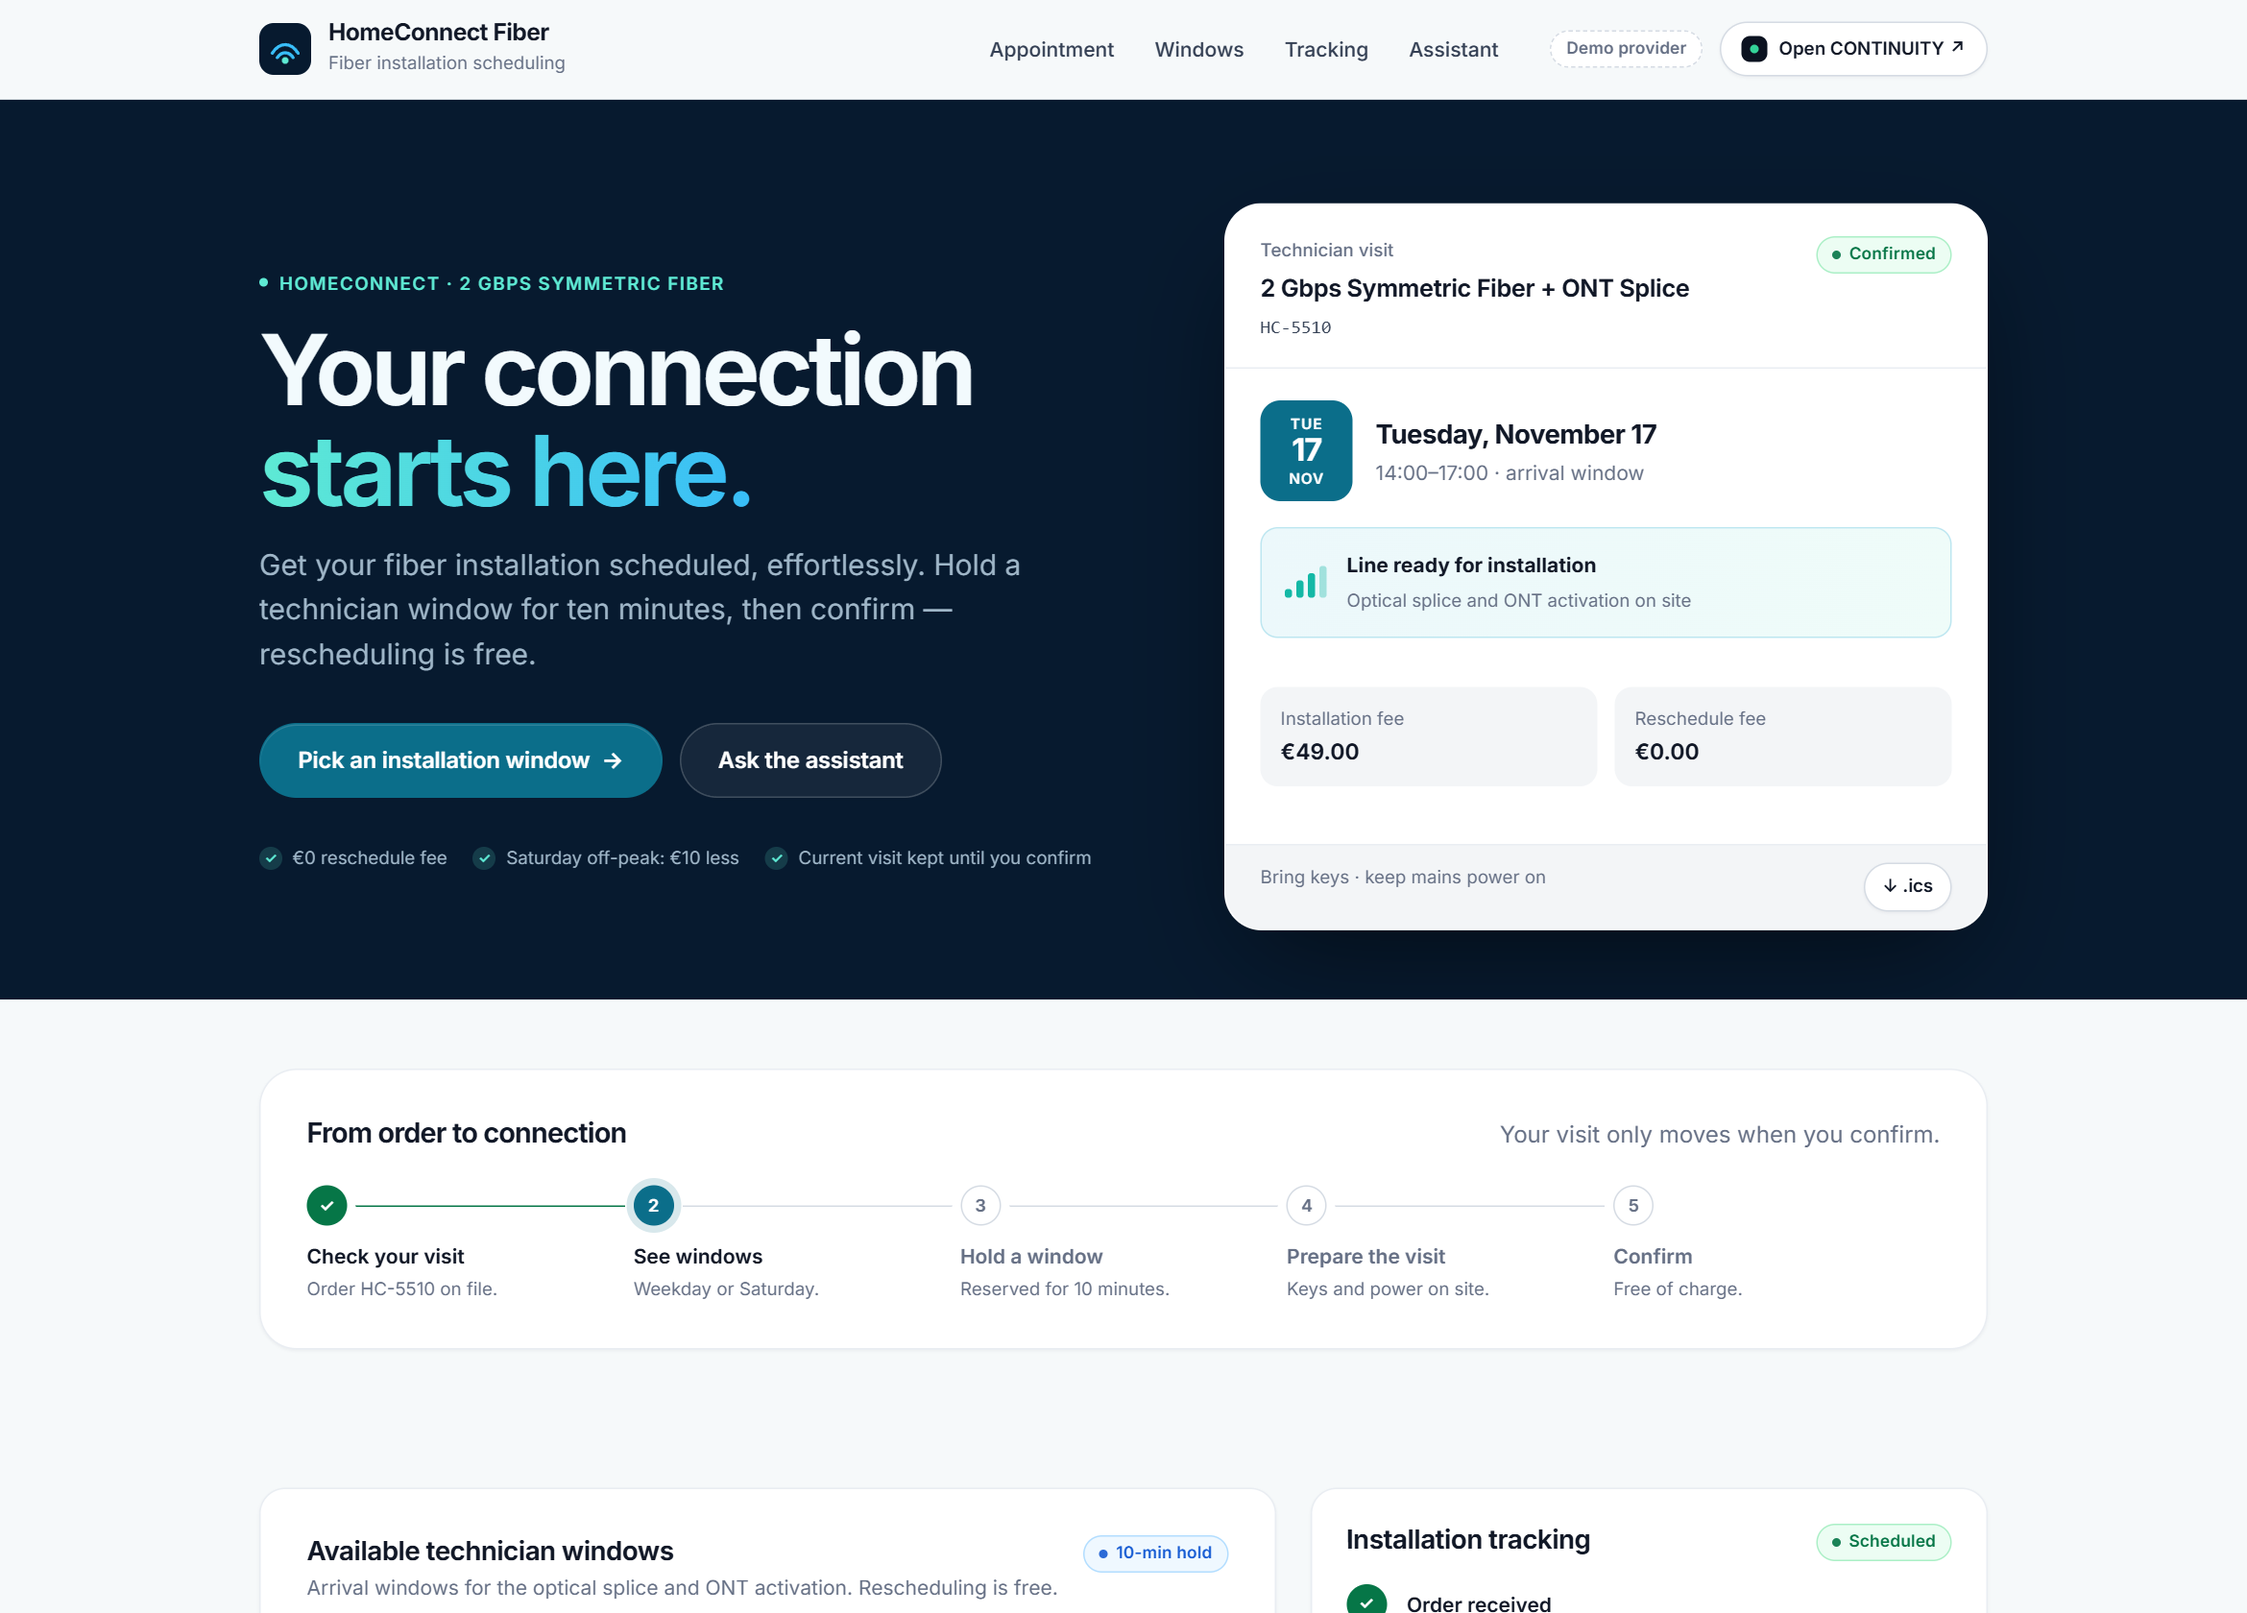
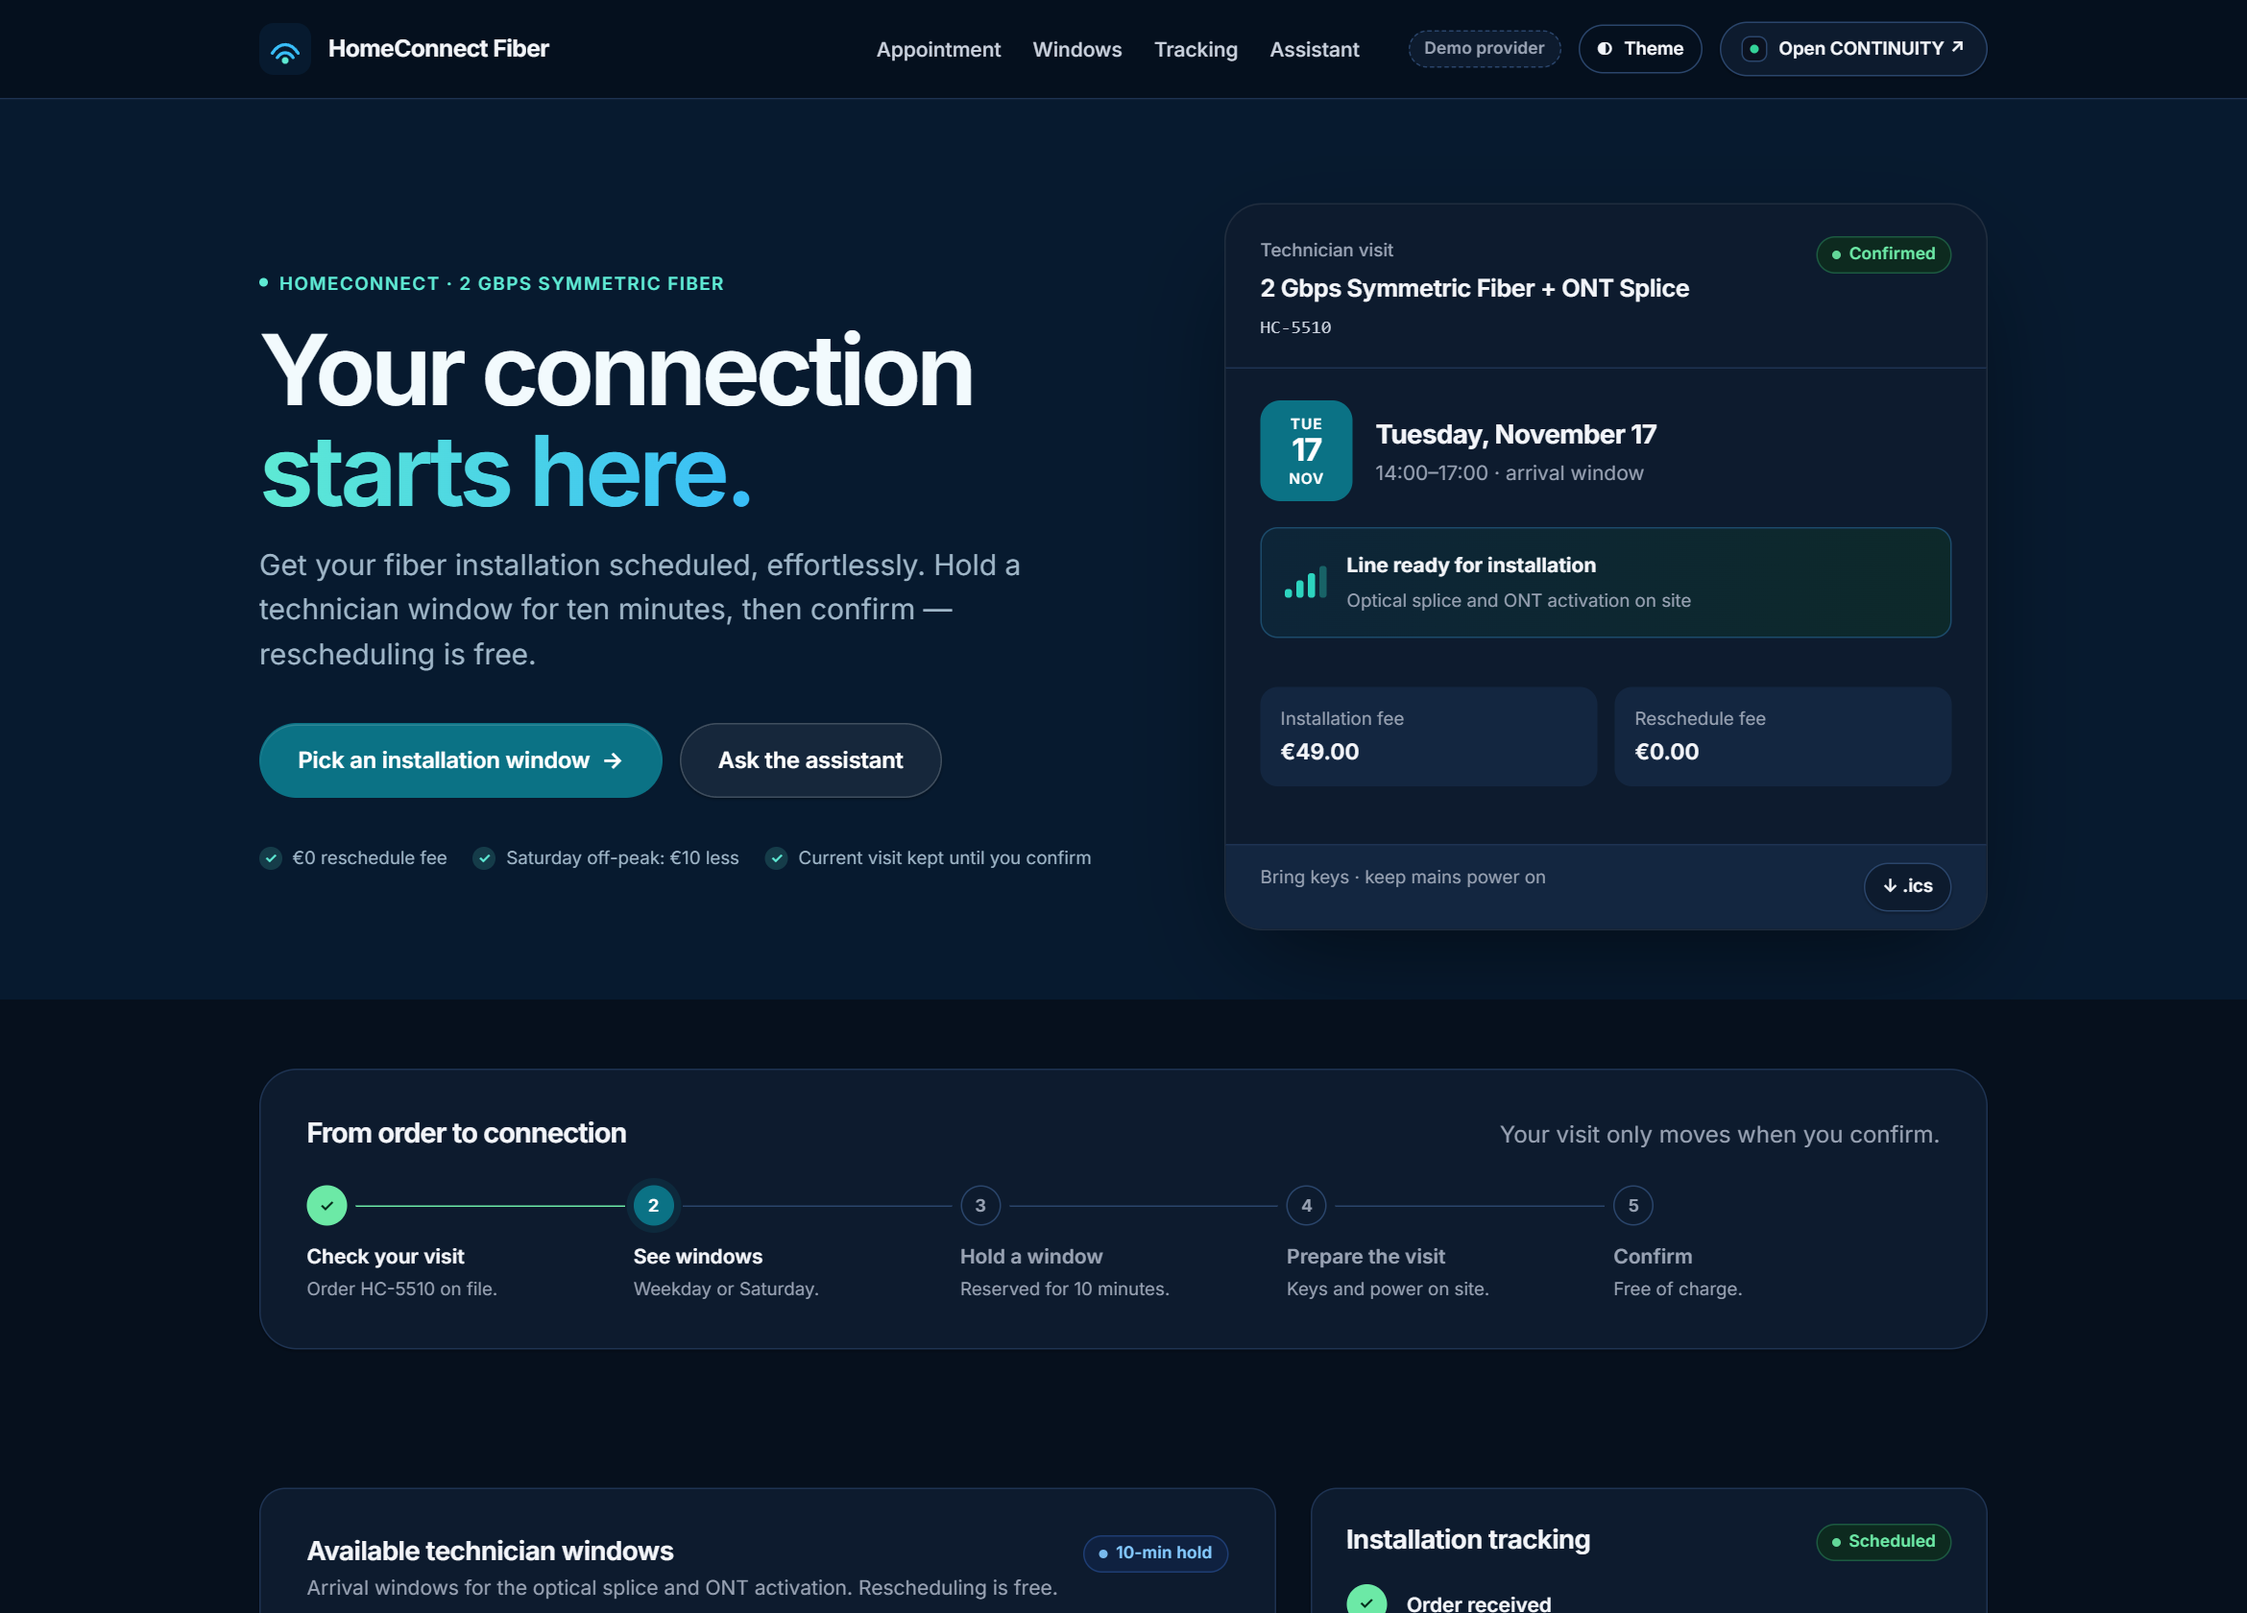
docs: impact kit (timed 5-person user test, outreach to other teams, one-origin-per-provider guide), plain one-line pitch, night-theme screenshots
Claude-Session: https://claude.ai/code/session_01G5J9oM5g3DGDmTQiK1m8Kt

diff --git a/docs/impact/USER_TEST_PROTOCOL.md b/docs/impact/USER_TEST_PROTOCOL.md
@@ -1,0 +1,37 @@
+# Timed user test — "by hand" vs CONTINUITY (5 people, ~25 min each)
+
+**Goal:** replace the *estimate* "~18 actions on 6 websites" with **measured** time, steps, mistakes and confidence from real people. Five participants are enough to show the size of the effect (we report medians and ranges, not statistics we cannot claim).
+
+## Participants
+5 adults who have moved house or rescheduled several appointments at least once. Not developers of this project. No personal data is collected: participant = P1…P5.
+
+## Setup (10 min, once)
+- Laptop, Chrome, 1440 px window, a stopwatch (phone) and `RESULTS_TEMPLATE.csv` open.
+- **Condition A – by hand:** four tabs open on the providers' own sites (MoveCo, PermitFlow, HomeConnect, PowerFlow — public URLs in the README) + the printed card *"Your move moved from Tue 17 Nov to Fri 20 Nov. Budget €700. Don't lose any booking. Storage and sofa delivery are not affected."*
+- **Condition B – CONTINUITY:** one tab on `https://toskaman.github.io/continuity-agentic-web/` (Reset demo before each participant). Same card.
+- **Counterbalance:** P1, P3, P5 do A then B; P2, P4 do B then A.
+
+## Task (same in both conditions)
+"Make every affected booking fit Friday without losing any, under €700. Tell me when you think you're done."
+In condition B the participant also switches on *Simulate a provider failure* first (the Friday crew is full) — the same failure is told to them verbally in condition A when they reach MoveCo ("the 08:00 crew is full on Friday").
+
+## What to record (per condition)
+| Field | How |
+|---|---|
+| `time_s` | Stopwatch from "go" to "done" |
+| `actions` | Count clicks that change something + page/tab switches (observer tally) |
+| `sites_touched` | Distinct sites the participant interacted with |
+| `premature_cancel` | 1 if they cancelled/released a booking before its replacement existed, else 0 |
+| `unnecessary_contact` | Number of providers contacted that did not need to change (Storage/Sofa/PowerFlow) |
+| `correct_outcome` | 1 if all affected bookings end on a valid Friday/Saturday slot under budget |
+| `seq` | Single Ease Question 1–7: "Overall, how easy was this task?" |
+| `confidence` | 1–7: "How sure are you nothing is broken?" |
+| `quote` | One sentence, verbatim (optional) |
+
+## Script for the facilitator
+1. "We're testing the tool, not you. Think aloud if you like." 2. Run condition 1. 3. SEQ + confidence. 4. Run condition 2. 5. SEQ + confidence + "Which would you use next time, and why?" 6. Thank them.
+
+## After the sessions
+`node docs/impact/analyze_user_test.mjs docs/impact/RESULTS.csv` prints the medians, ranges and the ready-to-paste sentence for Devpost/README, e.g. *"Measured with 5 people: median 9 min 40 s by hand vs 1 min 50 s with CONTINUITY (−81 %), 2 of 5 cancelled a booking too early by hand, 0 with CONTINUITY."*
+
+**Honesty rules:** report every participant (no dropping), say "n = 5, not a statistical study", keep the raw CSV in the repo.

diff --git a/README.md b/README.md
@@ -2,6 +2,8 @@
 
 **One change. Every commitment re-aligned.**
 
+*You change one date; CONTINUITY asks every affected company's own agentic website what is possible, holds the replacements, and lets you approve one plan — nothing is cancelled without you.*
+
 Built for the **[Cognizant Open Agentic Web Challenge](https://cognizant-agenticweb.devpost.com/)** · All 5 sites pass the official Cognizant validators (`build_network.mjs --check`, `check_partner.mjs`) for the **[Worldwide Agentic Web MVP Specification (Profile 0.2)](https://github.com/cognizant-ai-labs/agentic-web/blob/main/docs/worldwide_agentic_web_mvp_spec.md)**.
 
 ![CONTINUITY coordinator](docs/submission/screenshots/01_continuity_mission_baseline.png)
@@ -13,7 +15,7 @@ Built for the **[Cognizant Open Agentic Web Challenge](https://cognizant-agentic
 1. Open **https://toskaman.github.io/continuity-agentic-web/?demo=1** — the demo starts by itself (or open the site and click **Run the live demo**).
 2. CONTINUITY injects a real provider failure (MoveCo's Friday crew is full), recovers through an overflow partner, compares plans and holds replacements — your original bookings stay untouched.
 3. The approval dialog lists every operation, price and provider. Click **Approve & commit**: three providers commit, three bookings stay untouched (two are never even contacted), and each commit returns an Ed25519-signed receipt.
-4. The page scrolls to **Watch the providers react**: the four providers' real pages, framed from their own origin, each verify their signed receipt and show the new date (PowerFlow is correctly left unchanged).
+4. The page scrolls to **Watch the providers react**: the four providers' real pages, loaded cross-origin from their own deployments, each verify their signed receipt and show the new date (PowerFlow is correctly left unchanged).
 5. Optional: **Try without a key** in *Ask CONTINUITY* runs the real agent networks, `website_*` tools and consent cards with a scripted model.
 
 **Lighthouse 13.6 (desktop), all 5 live sites:** 100 Performance · 100 Accessibility · 100 Best Practices · 100 SEO · 100 Agentic Browsing — [details](docs/benchmarks/BROWSER_PERF_AND_MEMORY_AUDIT.md).

diff --git a/docs/impact/OUTREACH_OTHER_TEAMS.md b/docs/impact/OUTREACH_OTHER_TEAMS.md
@@ -1,0 +1,23 @@
+# Inviting another team's Open Agentic Website into CONTINUITY
+
+**Why:** the strongest possible proof for the challenge theme is CONTINUITY coordinating a site **we did not build**. One external site in the mesh turns "an open agentic web" from a claim into a fact.
+
+## Message (paste in the challenge community channel, a Devpost project comment or a GitHub issue on their repo)
+
+> Hi! We built **CONTINUITY** for the Open Agentic Web Challenge — an open agentic website that re-plans a life change across *other* agentic websites (live: https://toskaman.github.io/continuity-agentic-web/?demo=1).
+>
+> We'd love to show your site as a real, independent partner in our network. All we need is your public `agent-manifest.json` URL. In return:
+> - a free **9-point MVP 0.2 conformance report** of your site (our Builder Kit, zero backend — also exports SARIF for your CI): https://toskaman.github.io/continuity-agentic-web/community-kit.html
+> - your site credited in our demo, README and video, with a link;
+> - nothing changes on your side: we only call your published network after the visitor consents, and we send no personal data.
+>
+> If you'd like it to work both ways, your assistant can also consult ours (`https://toskaman.github.io/continuity-agentic-web/continuity_coordinator`). Happy to help with either direction!
+
+## What we do when someone says yes (≈1 h)
+1. Run their manifest through the Builder Kit 9-point audit; send them the report.
+2. Add their network URL to the coordinator's partner tools (`apps/continuity-web/continuity_coordinator.hocon`, `peer_network_specialist.tools`) and their origin to `allowed_peers`; `npm run build:networks`.
+3. Add one line to the demo copy: which booking/service their site covers (e.g. a restaurant reservation moved with the date).
+4. Run `npm test`, deploy, record a 5-second clip of their site answering inside CONTINUITY for the video.
+
+## Where to find candidates
+The challenge's Devpost project gallery and its community channels; search GitHub for `agent-manifest.json` + `open-agentic-web`. Prefer sites whose service has a date or a booking (events, restaurants, travel, health, deliveries).

diff --git a/docs/impact/PROVIDER_DOMAINS_MIGRATION.md b/docs/impact/PROVIDER_DOMAINS_MIGRATION.md
@@ -1,0 +1,16 @@
+# Give each provider its own origin (5 sites → 5 origins)
+
+**Today:** CONTINUITY is on `toskaman.github.io`; the four providers are separate repositories under one GitHub user, so they share the host `gpaschercher-sudo.github.io` (cross-origin from the coordinator, same origin as each other). All our copy says this honestly ("loaded cross-origin", "5 separately deployed websites").
+
+**Why change it:** with one origin per company, the browser itself isolates every provider (storage, cookies, `postMessage` sources). The claim "each company runs its own website" becomes literally true and visible in every address bar — a strong point for the *Idea* and *Technology* criteria.
+
+## Option A — four free GitHub organisations (recommended, 15 min, free)
+1. Signed in as `gpaschercher-sudo`, create four free organisations (github.com → *Your organizations* → *New organization* → *Free*), for example: `moveco-express-demo`, `permitflow-civic-demo`, `homeconnect-fiber-demo`, `powerflow-energy-demo`.
+2. In each organisation create a public repository named `<org>.github.io` (e.g. `moveco-express-demo.github.io`). GitHub serves it at `https://moveco-express-demo.github.io/` — its own origin.
+3. Tell Claude the four names. Claude then updates `scripts/deploy_public_github.mjs` (peer → repo map) and `scripts/configure_origins.mjs`, redeploys the four sites, rebuilds the coordinator network (`tools`, `allowed_peers`, links), runs the 117 tests and the live 9-point audit, and updates README/Devpost/video copy.
+
+## Option B — Cloudflare Pages (free, 20 min)
+Create four Pages projects (`moveco-agentic-peer.pages.dev`, …) connected to the four existing repositories; the configure script already documents this mode (`--moveco https://moveco-agentic-peer.pages.dev …`).
+
+## Rollback
+Keep the old `gpaschercher-sudo.github.io/<peer>` repositories online until the new origins pass the live audit.
